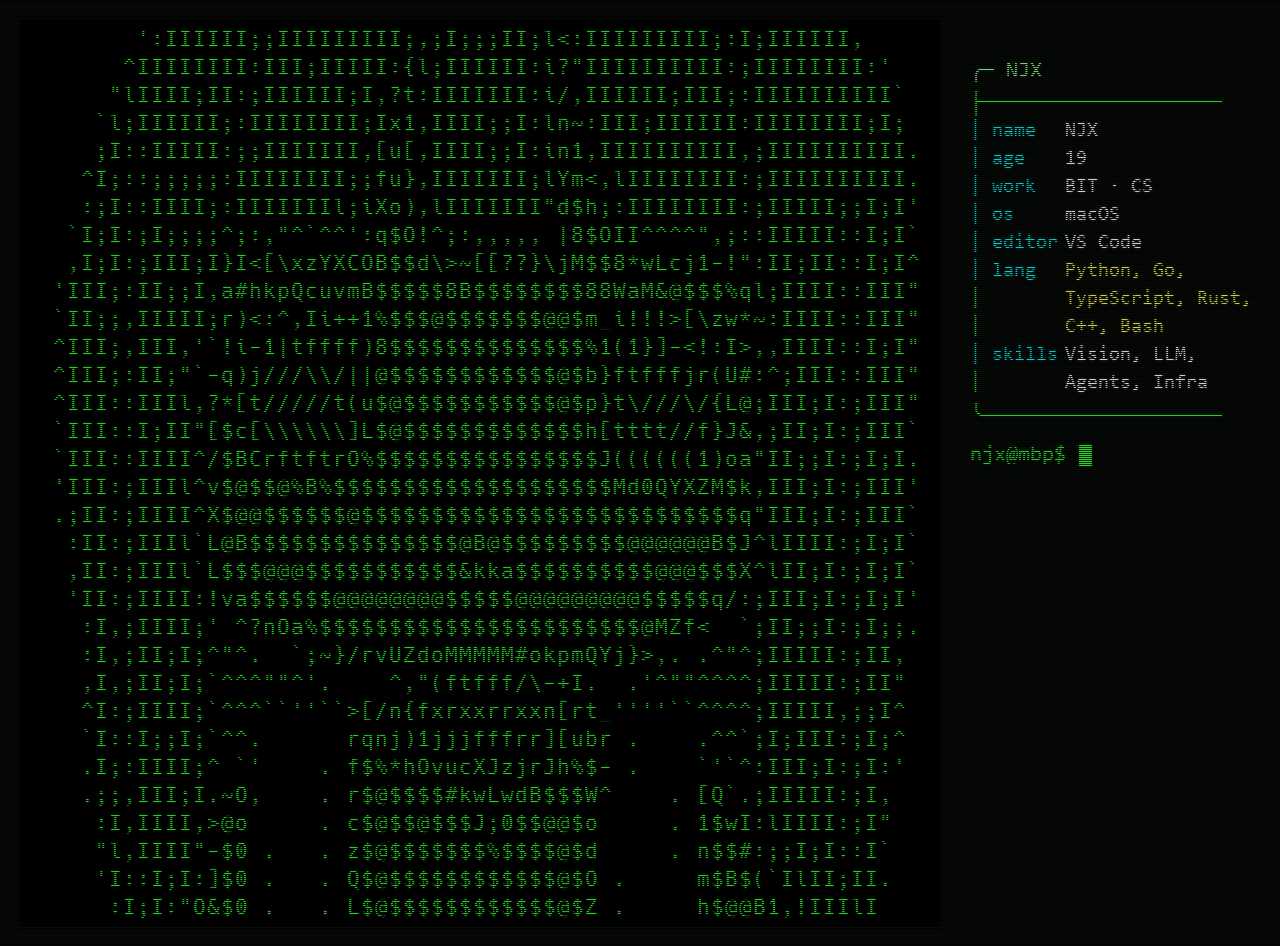
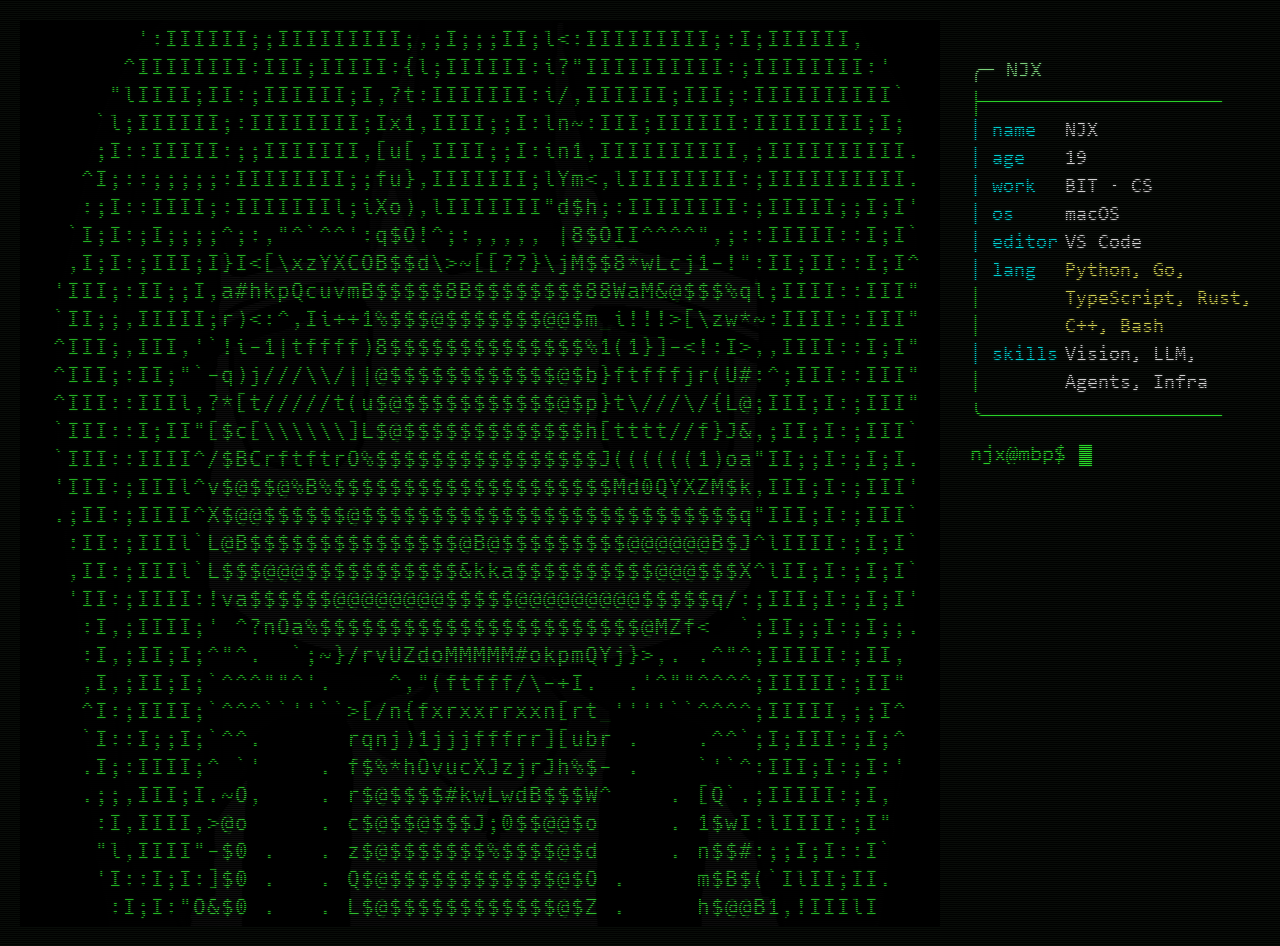
feat: blend ASCII art with original girl.jpg background

diff --git a/tools/generate_final_banner.py b/tools/generate_final_banner.py
@@ -128,7 +128,7 @@ def draw_info_panel(draw, x, y, font, small_font):
     return y
 
 
-def create_frame(ascii_img, frame_num, total_frames):
+def create_frame(ascii_img, frame_num, total_frames, bg_img=None):
     """Create a single animation frame."""
     # Get ASCII art dimensions
     ascii_w, ascii_h = ascii_img.size
@@ -138,11 +138,33 @@ def create_frame(ascii_img, frame_num, total_frames):
     total_width = ascii_w + panel_width + 40  # padding
     total_height = max(ascii_h + 40, 600)
     
-    # Create frame with dark background
-    frame = Image.new('RGBA', (total_width, total_height), (10, 15, 10, 255))
-    
-    # Paste ASCII art on left
-    frame.paste(ascii_img, (20, 20))
+    # Create frame with dark background or use original image
+    if bg_img is not None:
+        # Resize background to match ASCII art area
+        bg_resized = bg_img.resize((ascii_w, ascii_h), Image.Resampling.LANCZOS)
+        # Darken the background slightly
+        bg_darkened = ImageEnhance.Brightness(bg_resized).enhance(0.4)
+        # Add green tint
+        bg_array = bg_darkened.convert('RGB')
+        
+        # Create the full frame
+        frame = Image.new('RGBA', (total_width, total_height), (10, 15, 10, 255))
+        # Paste darkened background
+        frame.paste(bg_darkened.convert('RGBA'), (20, 20))
+        
+        # Make ASCII art semi-transparent and blend
+        ascii_rgba = ascii_img.convert('RGBA')
+        # Reduce ASCII opacity to blend with background
+        alpha = ascii_rgba.split()[3]
+        alpha = ImageEnhance.Brightness(alpha).enhance(0.85)
+        ascii_rgba.putalpha(alpha)
+        
+        # Composite ASCII over background
+        frame.paste(ascii_rgba, (20, 20), ascii_rgba)
+    else:
+        frame = Image.new('RGBA', (total_width, total_height), (10, 15, 10, 255))
+        # Paste ASCII art on left
+        frame.paste(ascii_img, (20, 20))
     
     # Draw info panel on right
     draw = ImageDraw.Draw(frame)
@@ -194,6 +216,15 @@ def main():
     ascii_img = Image.open(ascii_path).convert('RGBA')
     print(f"Loaded ASCII art: {ascii_img.size}")
     
+    # Load original girl.jpg as background
+    girl_path = os.path.join(project_dir, "images", "girl.jpg")
+    bg_img = None
+    if os.path.exists(girl_path):
+        bg_img = Image.open(girl_path)
+        print(f"Loaded background: {bg_img.size}")
+    else:
+        print("Warning: girl.jpg not found, using plain background")
+    
     # Generate frames
     frames = []
     total_frames = CONFIG["frames"]
@@ -201,7 +232,7 @@ def main():
     print(f"Generating {total_frames} frames...")
     for i in range(total_frames):
         print(f"  Frame {i+1}/{total_frames}")
-        frame = create_frame(ascii_img, i, total_frames)
+        frame = create_frame(ascii_img, i, total_frames, bg_img)
         frames.append(frame)
     
     # Save as GIF
